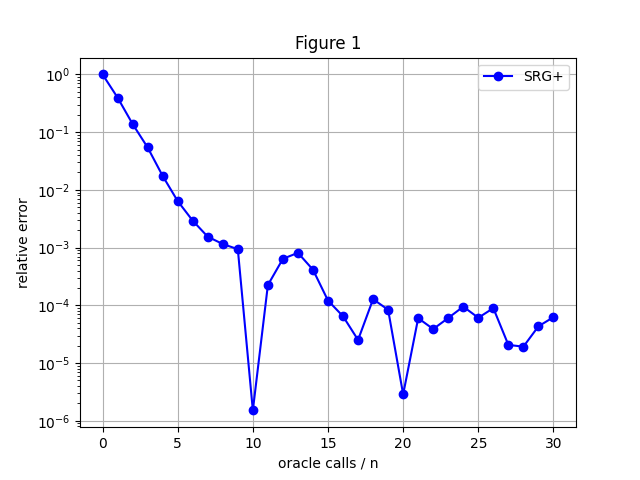
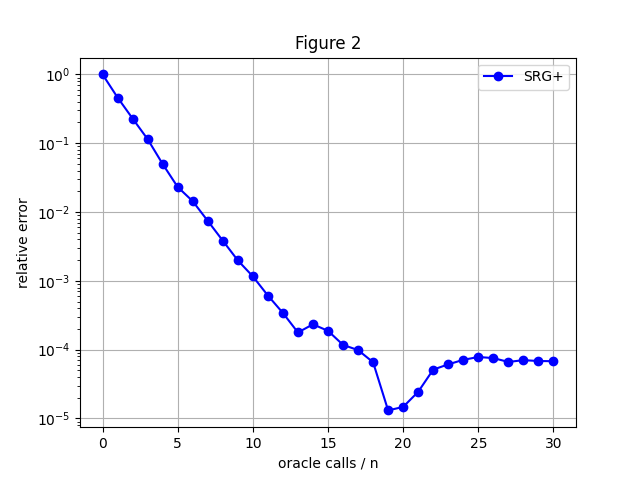
update fig 2

diff --git a/Figure 2/SRG_plus.py b/Figure 2/SRG_plus.py
@@ -59,13 +59,13 @@ def maximally_couples(p, q, n):
 
 
 def SRG_plus(d=20, n=20):
-    # set_seed(69)
+    set_seed(75) # 75
     num_iterations = n * 30
     # default
     x_star = 1 / (n ** 2)
 
     # step 1: Parameters
-    alpha = np.linspace(0.05, 0.001, num_iterations)
+    alpha = np.linspace(0.04, 0, num_iterations)
     # alpha = 0.9 / (1 + 0.01 * np.arange(num_iterations))
     # alpha = np.linspace(2, 0.5, num_iterations) 
     # alpha = 0.9 / (1 + 0.01 * np.arange(num_iterations))
@@ -143,7 +143,7 @@ def SRG_plus(d=20, n=20):
     plt.yscale('log')
     plt.xlabel('oracle calls / n')
     plt.ylabel('relative error')
-    plt.title('Figure 1')
+    plt.title('Figure 2')
     plt.legend()
     plt.grid(True)
     plt.show()
